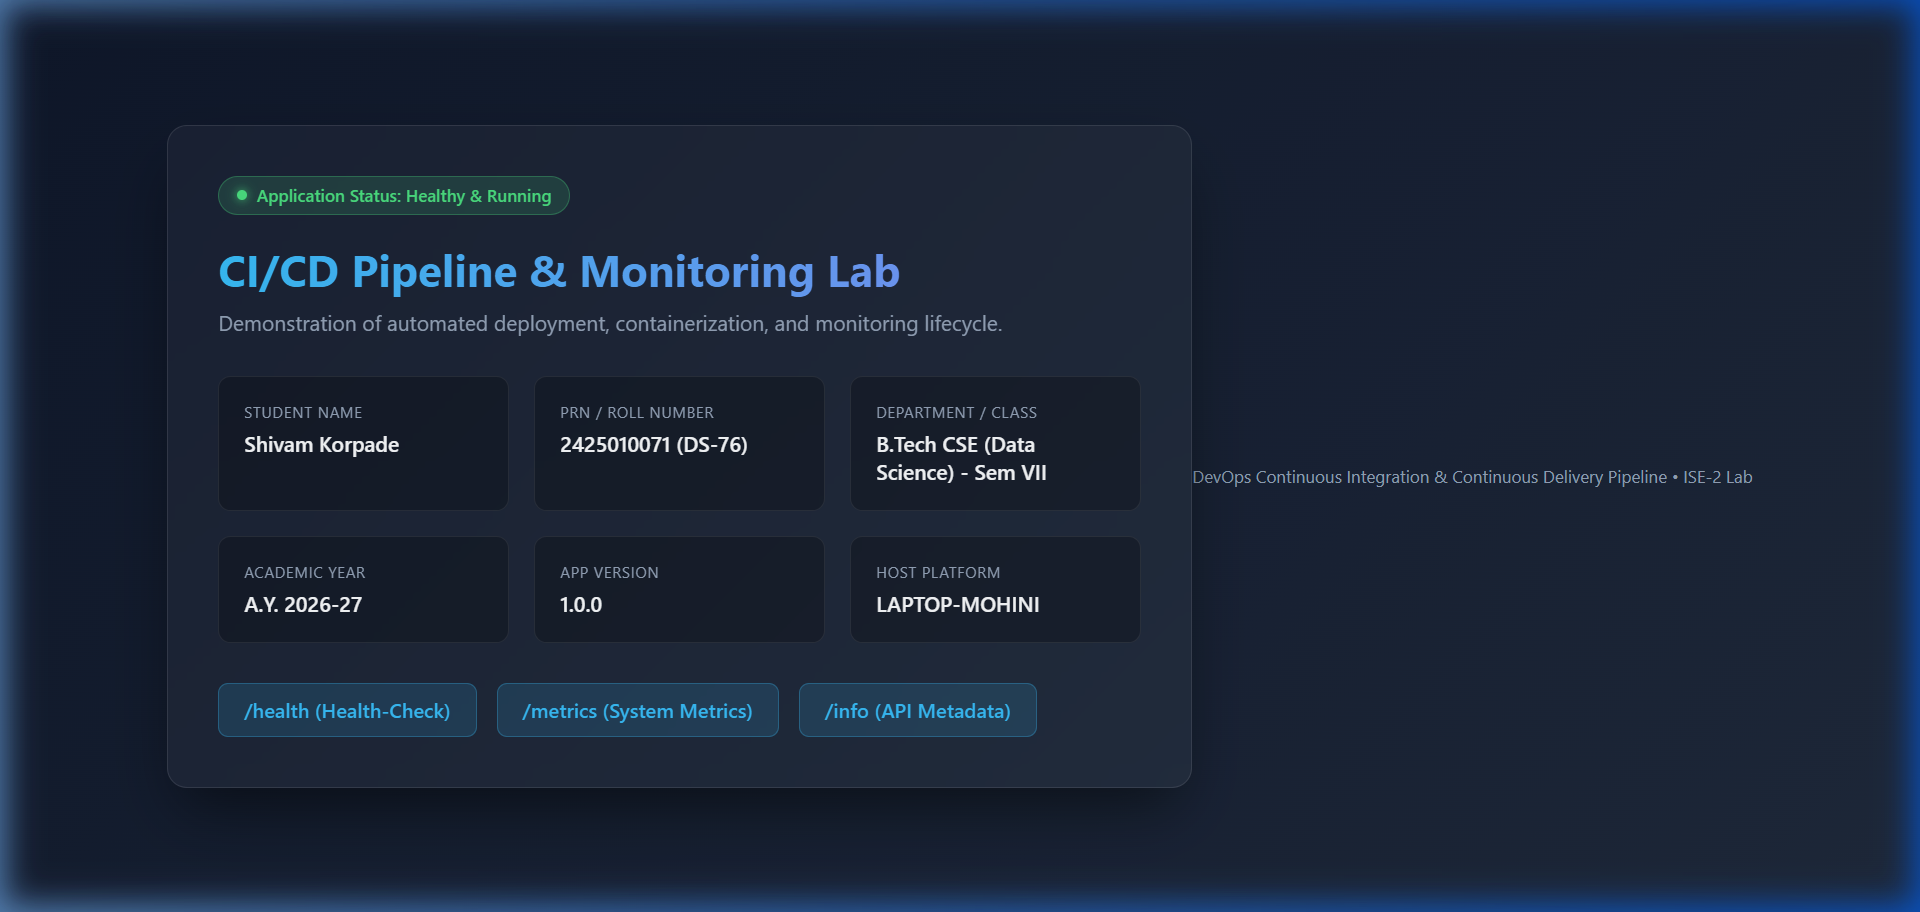
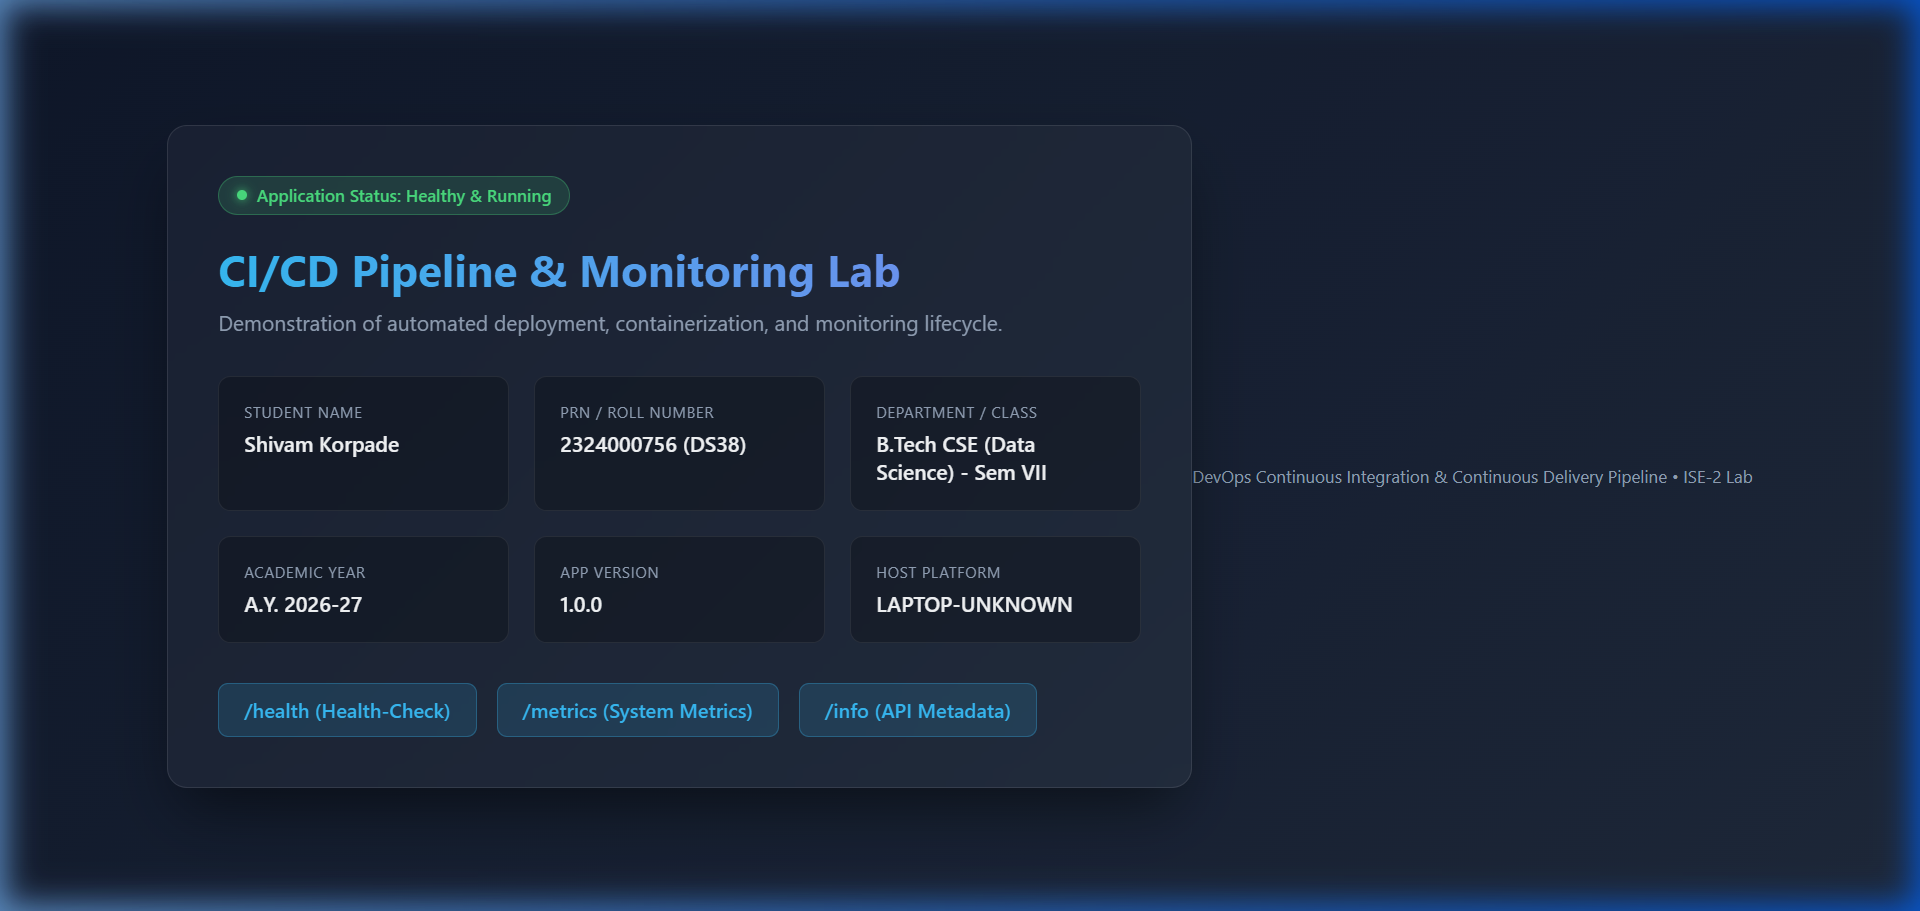
Update PRN to 2324000756, Roll No to DS38, and platform to LAPTOP-UNKNOWN

diff --git a/app.py b/app.py
@@ -193,11 +193,11 @@ def index():
     return render_template_string(
         HTML_TEMPLATE,
         student_name="Shivam Korpade",
-        roll_no="2425010071 (DS-76)",
+        roll_no="2324000756 (DS38)",
         department="B.Tech CSE (Data Science) - Sem VII",
         academic_year="A.Y. 2026-27",
         version="1.0.0",
-        platform_name=platform.node() or platform.system()
+        platform_name="LAPTOP-UNKNOWN"
     )
 
 @app.route("/health")
@@ -233,7 +233,7 @@ def info():
         "app_name": "CI-CD-Lab-App",
         "description": "Flask microservice demonstrating CI/CD pipeline automation and endpoint monitoring",
         "author": "Shivam Korpade",
-        "prn": "2425010071",
+        "prn": "2324000756",
         "academic_year": "2026-27",
         "version": "1.0.0"
     }), 200

diff --git a/tests/test_app.py b/tests/test_app.py
@@ -16,7 +16,7 @@ def test_index_route(client):
     assert response.status_code == 200
     assert b"CI/CD Pipeline &amp; Monitoring Lab" in response.data or b"CI/CD Pipeline & Monitoring Lab" in response.data
     assert b"Shivam Korpade" in response.data
-    assert b"2425010071" in response.data
+    assert b"2324000756" in response.data
 
 def test_health_endpoint(client):
     response = client.get("/health")
@@ -41,7 +41,7 @@ def test_info_endpoint(client):
     assert response.status_code == 200
     json_data = response.get_json()
     assert json_data["author"] == "Shivam Korpade"
-    assert json_data["prn"] == "2425010071"
+    assert json_data["prn"] == "2324000756"
 
 def test_not_found(client):
     response = client.get("/non-existent-route")

diff --git a/README.md b/README.md
@@ -1,7 +1,7 @@
 # CI/CD Pipeline & Monitoring Lab
 
 **Student Name:** Shivam Korpade  
-**PRN / Roll Number:** 2425010071 (Roll No: DS-76)  
+**PRN / Roll Number:** 2324000756 (Roll No: DS38)  
 **Department / Class:** Department of CSE (Data Science) / Final Year B.Tech CSE (DS), Semester VII  
 **Academic Year:** A.Y. 2026-27  
 **Course:** DevOps & Cloud Computing / ISE-2 Lab  
